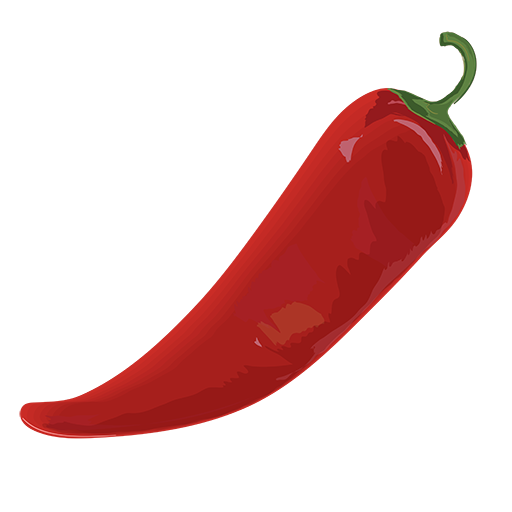
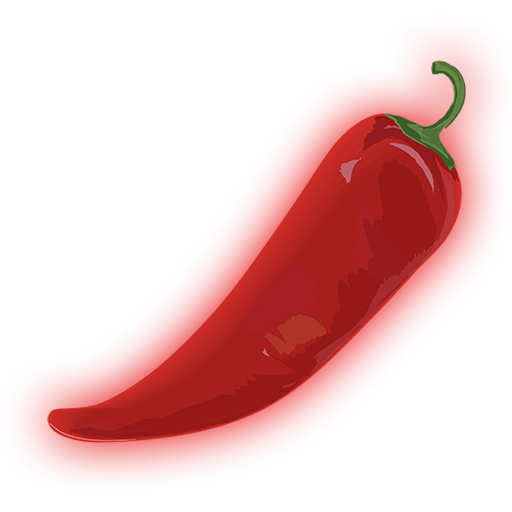
star2

Changed region(s): [[0.0312, 0.0625, 0.9688, 0.9375]]

diff --git a/experience0.js b/experience0.js
@@ -1,13 +1,19 @@
 import * as THREE from 'three';
 
+
 const EXPERIENCE_COLOR = 0xff0000;
 const FORE_SPRITE_COUNT = 50;
 const MAX_LIFE = 1000;
 const PARTICLE_FRICTION = 0.97;
 
 const STARFIELD_COUNT = 100;
+const CHILI_SCALE = 2;
+const CHILI_GROW = 0.08; // How fast chilis grow in (per frame)
+const HYPER_SPEED = 0.19; // Constant speed for all chilis
+const MAX_ROT = 0.08; // Maximum rotation speed (radians per frame)
 let starPlanes = [];
-let starVelocities = [];
+let starScales = []; // Track scale scalar for each chili
+let starRotations = []; // Track rotation speed for each chili
 let starTexture = null;
 
 let sprites = [], velocities = [], life = [];
@@ -18,6 +24,8 @@ let foreground = { renderer: null, scene: null, camera: null };
 
 let scene, camera;
 
+
+
 export default {
     async initBackground(canvas) {
         // Load chili texture
@@ -25,9 +33,13 @@ export default {
         starTexture = await new Promise((resolve, reject) => {
             loader.load('chili.png', resolve, undefined, reject);
         });
+        // Ensure correct color space for texture
+        starTexture.encoding = THREE.sRGBEncoding;
 
         const renderer = new THREE.WebGLRenderer({ alpha: true });
         renderer.setSize(canvas.width, canvas.height, false);
+        // Ensure renderer outputs sRGB
+        renderer.outputEncoding = THREE.sRGBEncoding;
         scene = new THREE.Scene();
         camera = new THREE.PerspectiveCamera(45, canvas.width / canvas.height, 0.1, 100);
         camera.position.set(0, 0, 5);
@@ -35,7 +47,8 @@ export default {
         // Starfield planes
         const geometry = new THREE.PlaneGeometry(0.4, 0.4);
         starPlanes = [];
-        starVelocities = [];
+        starScales = [];
+        starRotations = [];
         for (let j = 0; j < STARFIELD_COUNT; j++) {
             const material = new THREE.MeshBasicMaterial({
                 map: starTexture,
@@ -51,9 +64,10 @@ export default {
             );
             scene.add(mesh);
             starPlanes.push(mesh);
-            // Give each star a random z velocity (towards camera)
-
-            starVelocities.push(0.05 + Math.random() * 0.07);
+            // Start with full scale
+            starScales.push(1);
+            // Assign random rotation speed between -MAX_ROT and MAX_ROT
+            starRotations.push((Math.random() * 2 - 1) * MAX_ROT);
         }
         // No lighting needed for unlit material
         background.renderer = renderer;
@@ -66,17 +80,26 @@ export default {
         for (let j = 0; j < starPlanes.length; j++) {
             const plane = starPlanes[j];
             // Move towards camera
-
-            plane.position.z += starVelocities[j];
+            plane.position.z += HYPER_SPEED;
+            // Rotate through Y
+            plane.rotation.z += starRotations[j];
             // Respawn if passed camera
             if (plane.position.z > camera.position.z) {
                 plane.position.x = Math.random() * 10 - 5;
                 plane.position.y = Math.random() * 10 - 5;
                 plane.position.z = Math.random() * -30 - 5;
-                starVelocities[j] = 0.05 + Math.random() * 0.07;
+                // Set scale scalar to 0 for grow-in effect
+                starScales[j] = 0;
+                // Assign new random rotation speed
+                starRotations[j] = (Math.random() * 2 - 1) * MAX_ROT;
             }
+            // Grow scale if not yet 1
+            if (starScales[j] < CHILI_SCALE) {
+                starScales[j] = Math.min(1, starScales[j] + CHILI_GROW);
+            }
+            plane.scale.setScalar(starScales[j]);
             // Always face the camera
-            plane.lookAt(camera.position);
+            // plane.lookAt(camera.position);
         }
         if (renderer.domElement.width !== canvas.width || renderer.domElement.height !== canvas.height) {
             renderer.setSize(canvas.width, canvas.height, false);
